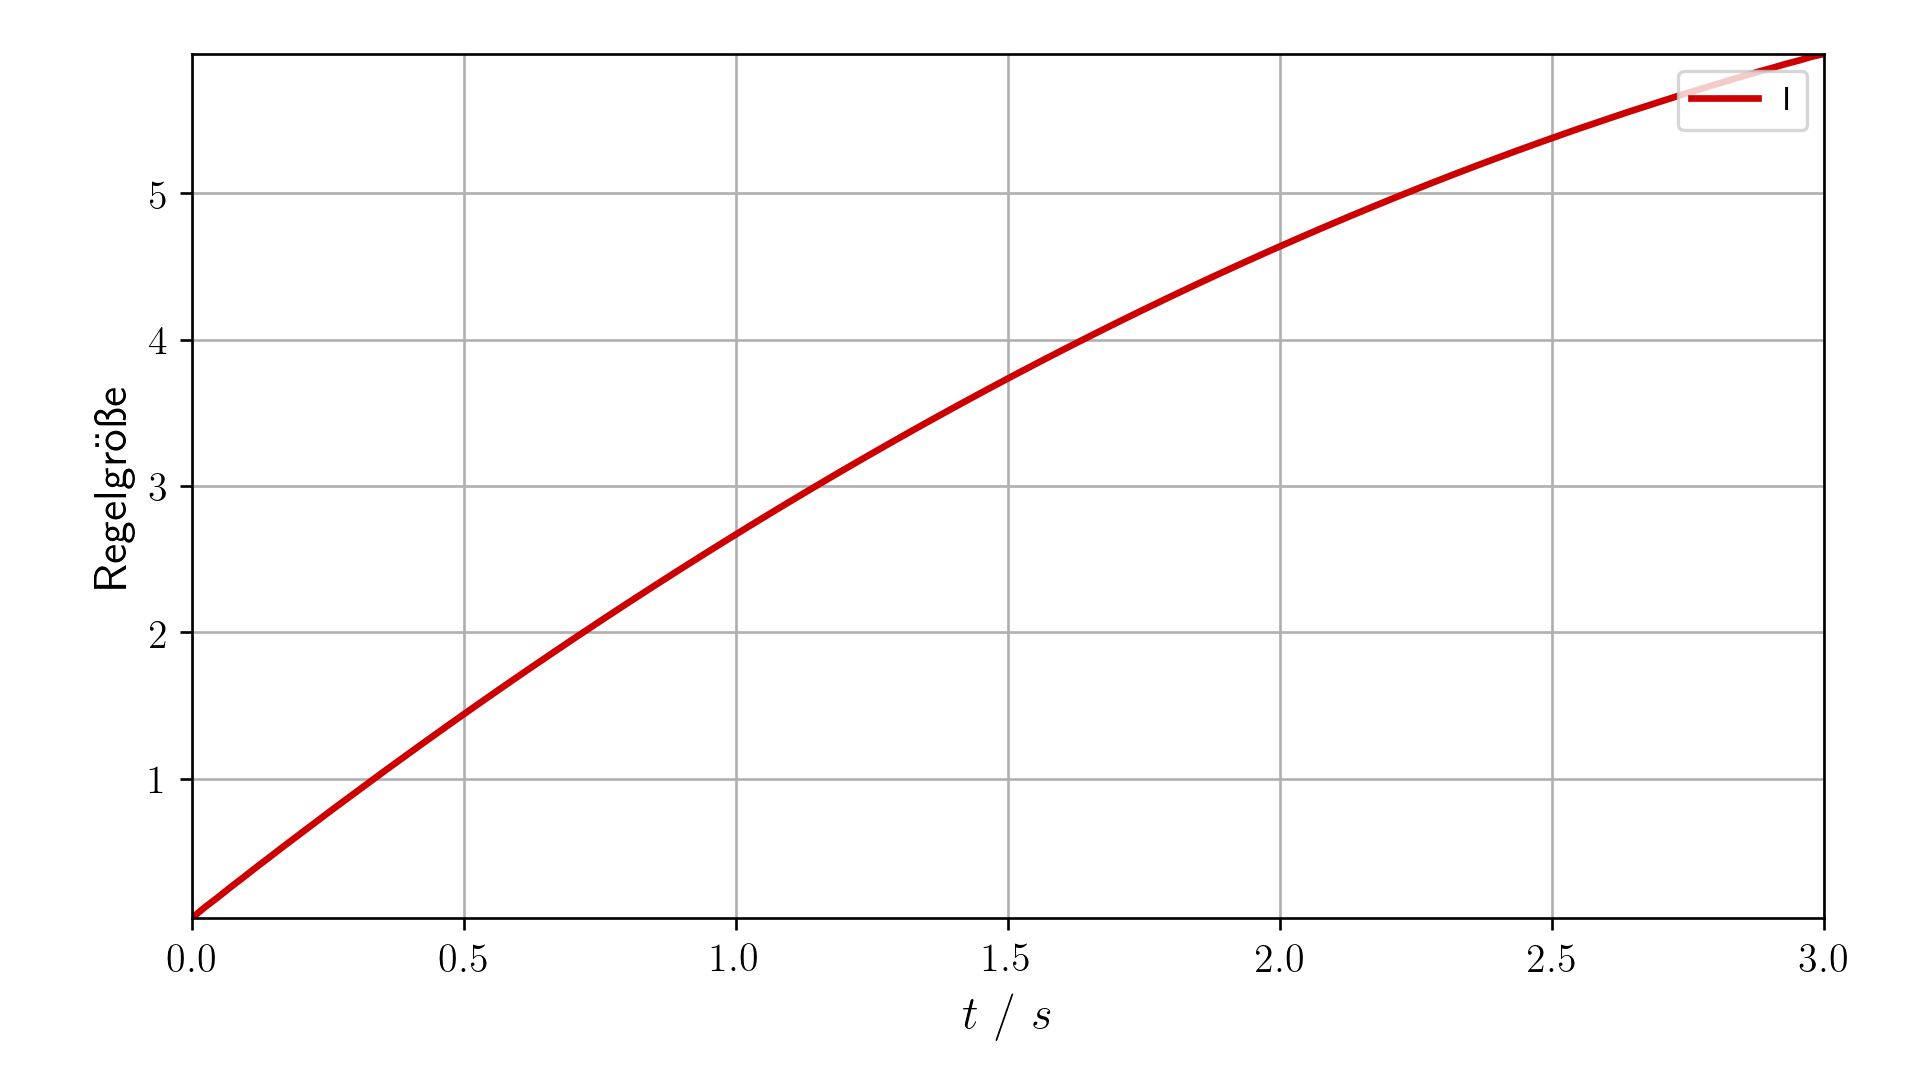
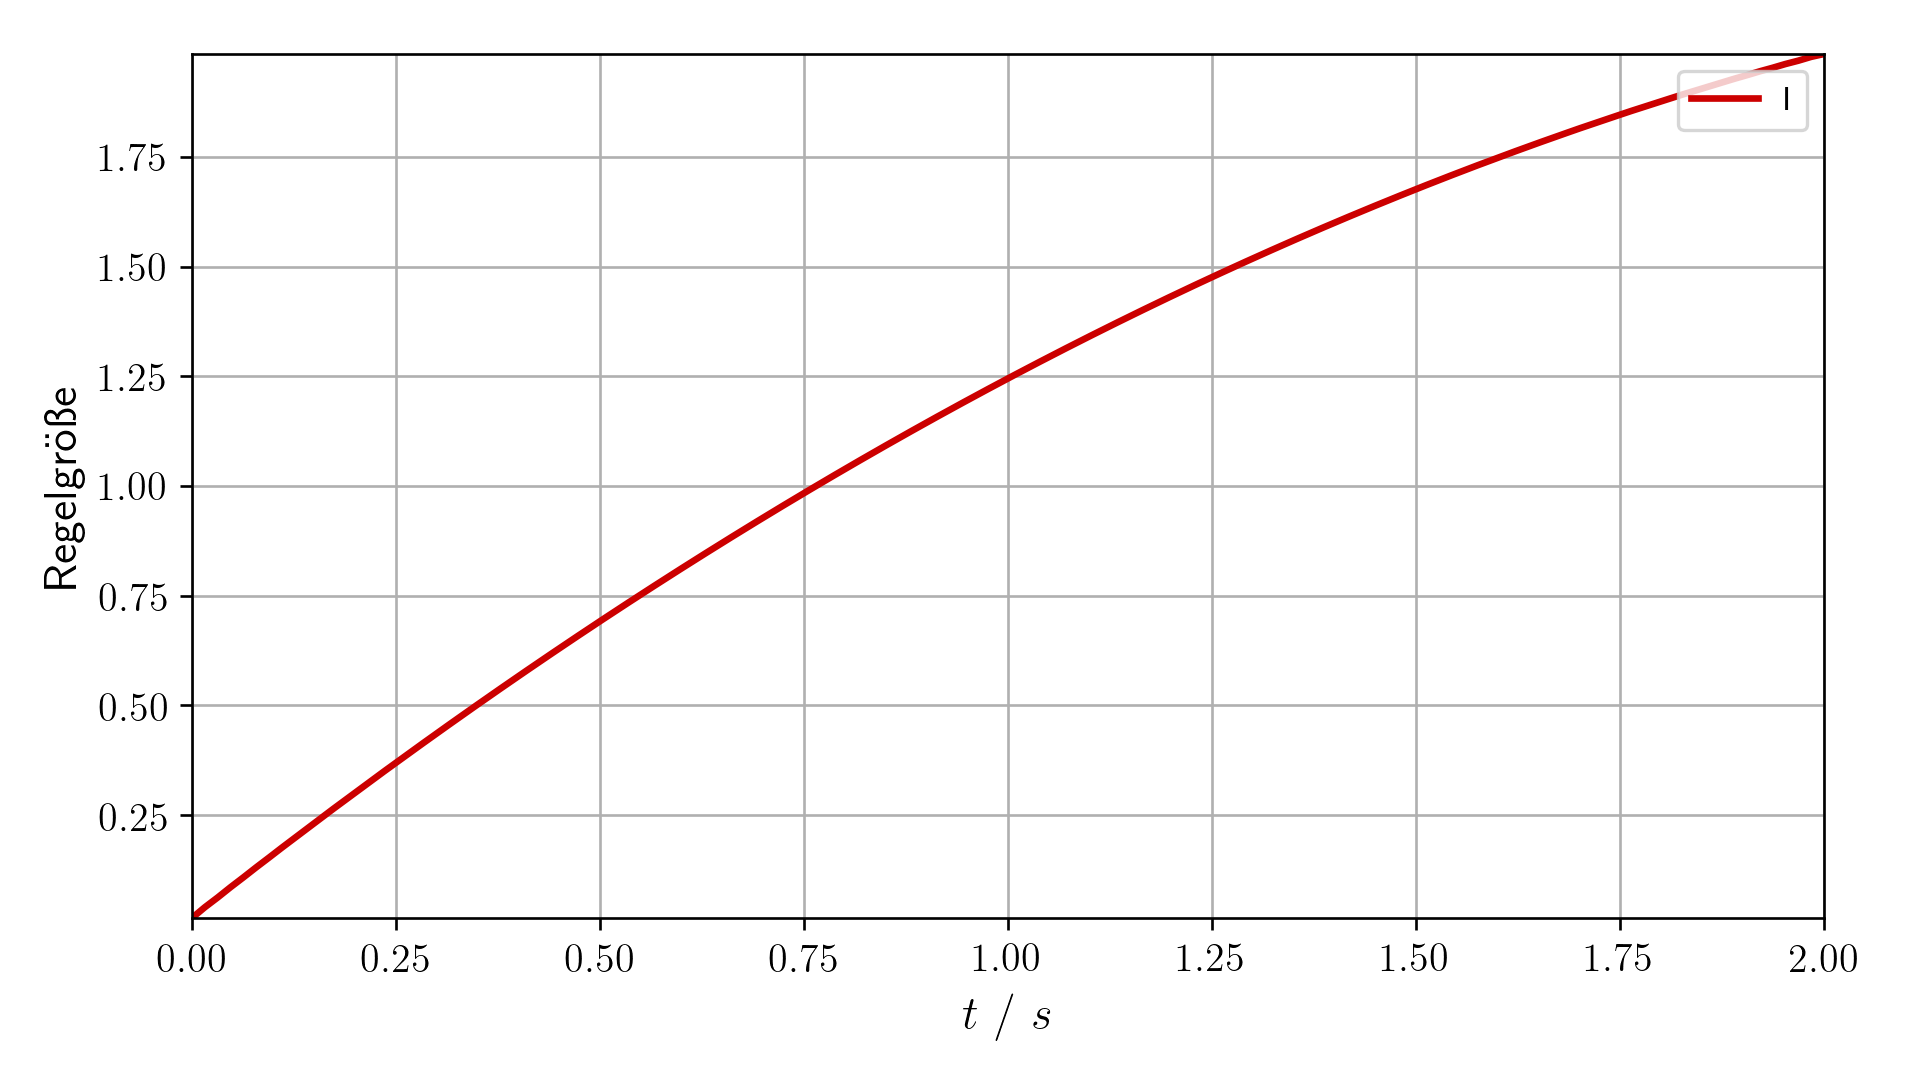
Even more stuff

diff --git a/regelungstechnik.py b/regelungstechnik.py
@@ -44,8 +44,8 @@ def I(T):
     """
     Returns the transfer function F(s) = 1 / Ts.
     """
-        def F(s):
-                s = np.asarray(s, dtype=np.complex64)
+    def F(s):
+        s = np.asarray(s, dtype=np.complex64)
         duration = 2j * np.pi / (s[1] - s[0])
         val = duration / T * np.ones(s.size, dtype=np.complex64)
         val[s != 0] = 1 / (T * s[s != 0])
@@ -58,10 +58,10 @@ def PT1(T, V=1, dB=False):
     Returns the transfer function F(s) = V / (Ts + 1).
     V may be given in dB.
     """
-        if dB:
+    if dB:
         V = lin(V)
     def F(s):
-                s = np.asarray(s, dtype=np.complex64)
+        s = np.asarray(s, dtype=np.complex64)
         return V / (T * s + 1)
     return F
 
@@ -72,10 +72,10 @@ def PT2(omega, D, V=1, dB=False):
     F(s) = V / ((s/omega)^2 + 2D/omega * s + 1).
     V may be given in dezibel.
     """
-        if dB:
+    if dB:
         V = lin(V)
     def F(s):
-                s = np.asarray(s, dtype=np.complex64)
+        s = np.asarray(s, dtype=np.complex64)
         return V / ((s / omega) ** 2 + (2 * D / omega) * s + 1)
     return F
 
@@ -112,8 +112,8 @@ def PROD(functions):
     Returns the product of the given transfer functions
     as a new transfer function.
     """
-        def F(s):
-                s = np.asarray(s, dtype=np.complex64)
+    def F(s):
+        s = np.asarray(s, dtype=np.complex64)
         prod = np.ones(s.shape, dtype=np.complex64)
         for F in functions:
             prod *= F(s)
@@ -211,7 +211,7 @@ class BodeDiagram(object):
     Bode diagramm of an arbitrary number of transfer functions.
     """
     def __init__(self, functions, labels, start, stop, ticks,
-        dB_delta=20, phi_delta=45):
+        dB_delta=20, phi_delta=45, N=1024):
         """
         Takes a list of transfer functions with corresponding labels and
         creates a bode diagramm from 10**start to 10**stop and a given list
@@ -220,8 +220,6 @@ class BodeDiagram(object):
         self.functions = functions
         self.labels = labels
         self.colors = hue_intervall(len(functions), 1, 0.8)
-
-        N = 1024
 
         self.omega = np.logspace(start=start, stop=stop, num=N)
 
@@ -317,29 +315,26 @@ class StepResponse(object):
     """
     Step response of an arbitrary number of transfer functions.
     """
-    def __init__(self, functions, labels, duration):
+    def __init__(self, functions, labels, duration, N=1024):
         """
         Sets functions, labels and colors as attributes.
         Computes sample rate, time and omega from duration and N.
         """
-                self.functions = functions
+        self.functions = functions
         self.labels = labels
         self.colors = hue_intervall(len(functions), 1, 0.8)
 
-        N = 128
         sample_rate = N * 2 * np.pi / duration
 
         self.time = np.linspace(0, duration, N)
 
         omega = np.linspace(0, sample_rate, N)
         G = N // 2 + 1
-        # omega = omega[0:G] # Nyquist sampling theorem
 
-        #
         self.steps = []
 
         for F in functions:
-                        # Inverse real fourier transform, only takes lower half of spectrum
+            # Inverse real fourier transform, only takes lower half of spectrum
             spectrum = F(1j * omega)
             spectrum = spectrum[0:G]
             impulse_response = np.fft.irfft(spectrum)

diff --git a/test.py b/test.py
@@ -8,7 +8,7 @@ Created on Tue Mar 26 23:51:17 2019
 
 import regelungstechnik as rt
 
-I = rt.I(T=0.5)
+I = rt.I(T=1)
 
-step = rt.StepResponse([I], ["I"], duration=3)
+step = rt.StepResponse([I], ["I"], duration=2)
 step.save(filename="test.png")
